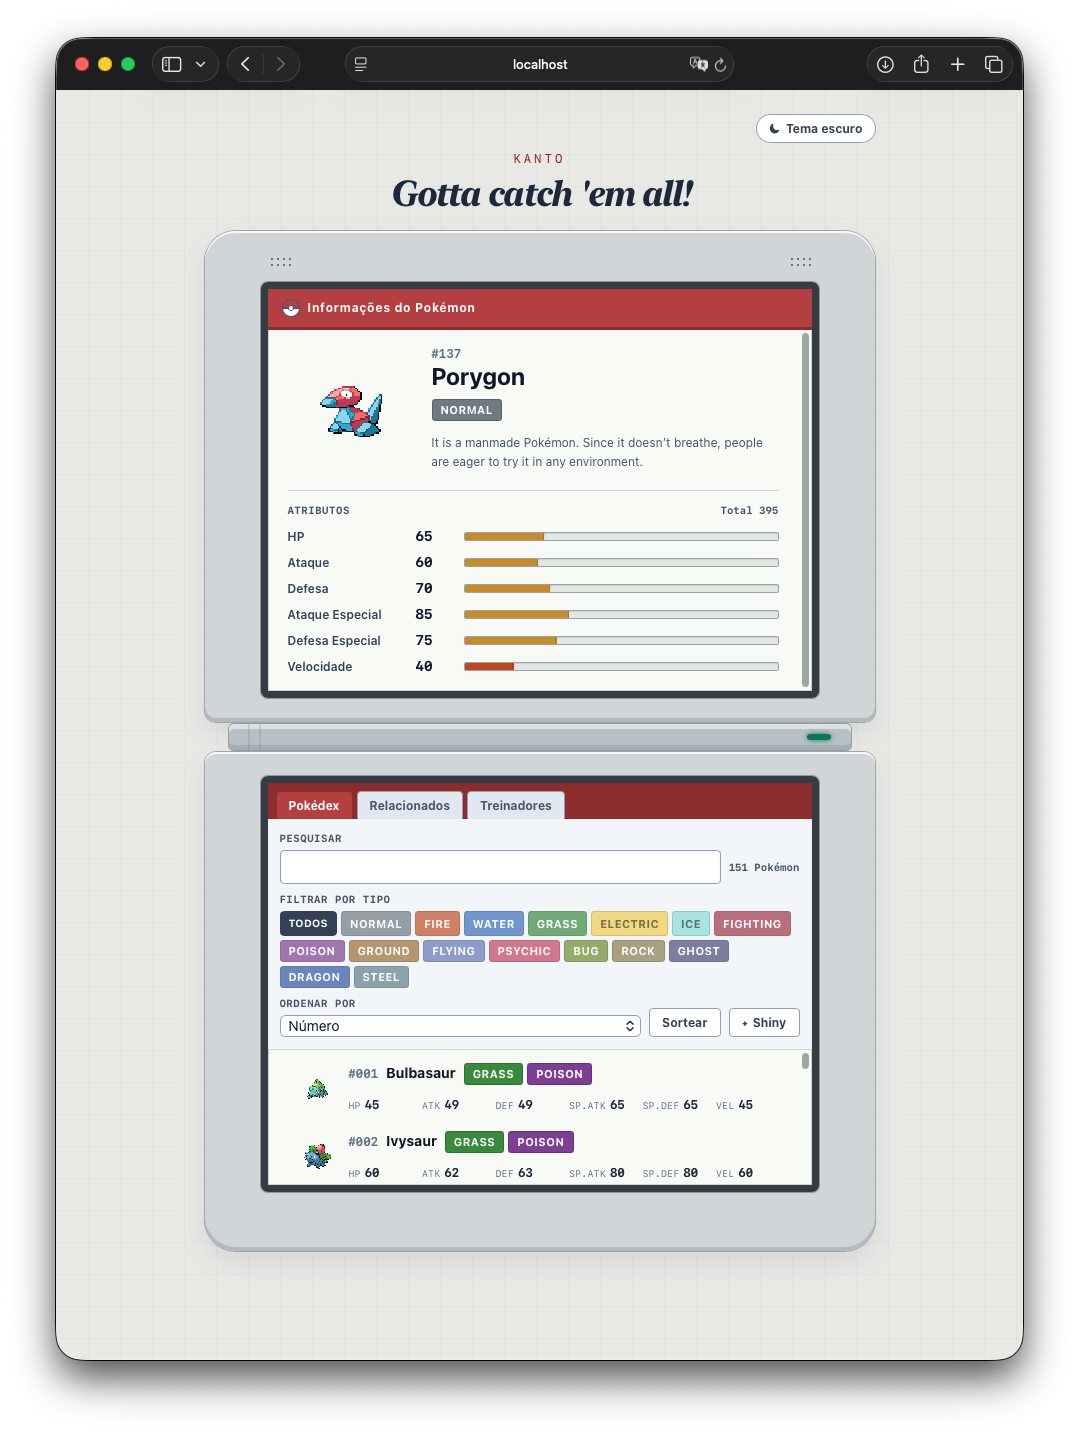
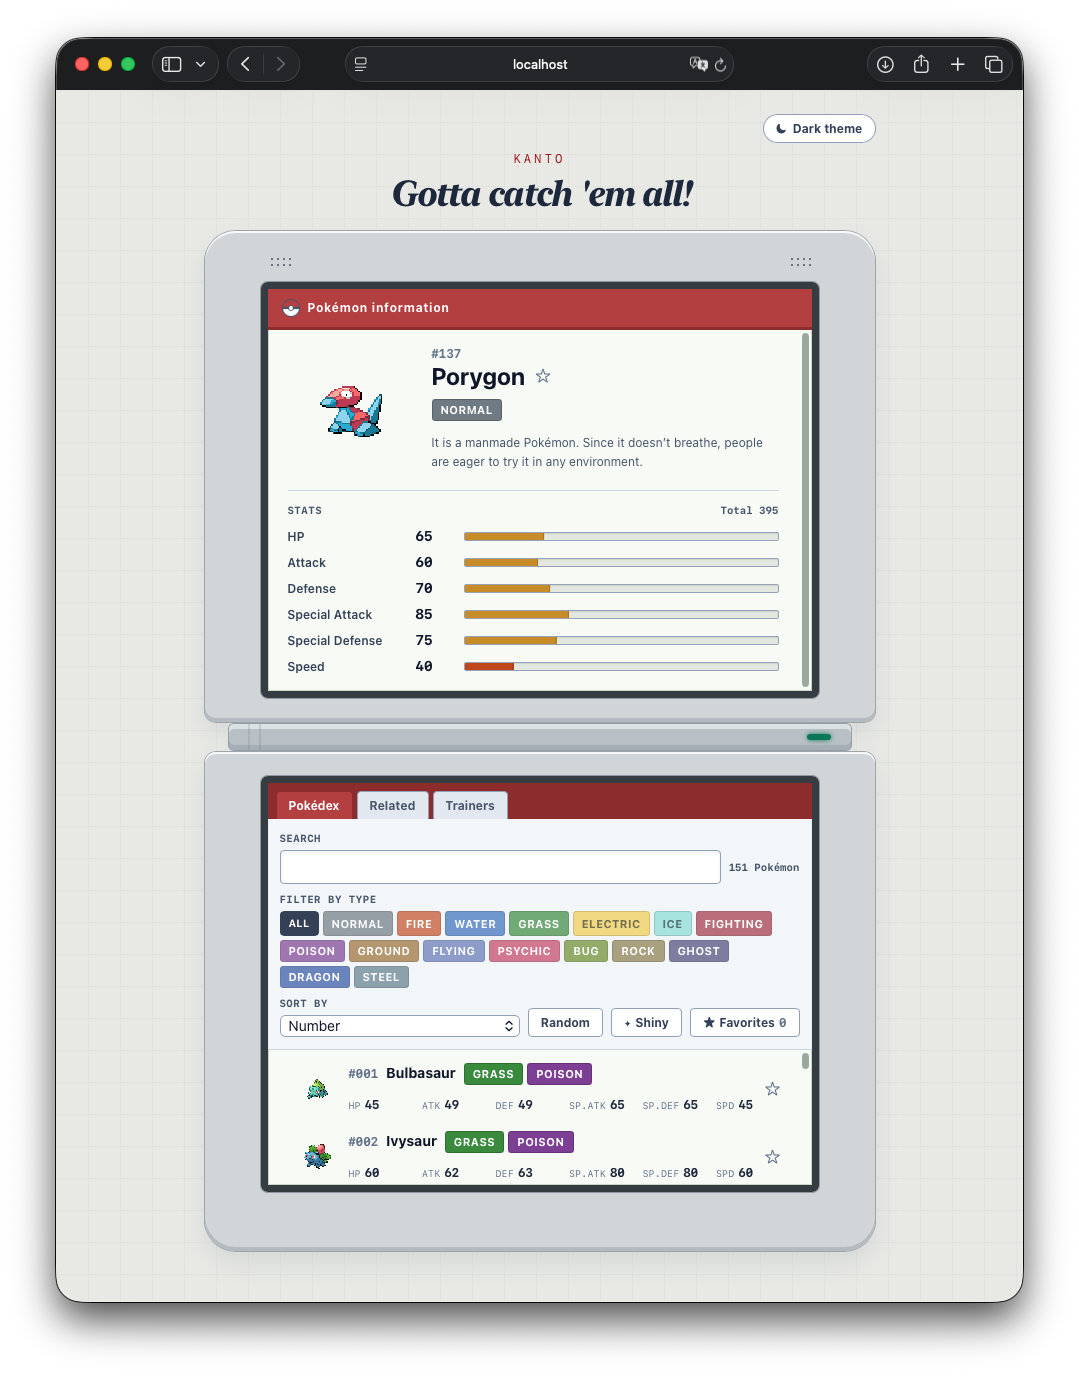
docs: adiciona imagem atualizada da tela

diff --git a/README.md b/README.md
@@ -6,7 +6,7 @@ seleção e sprites em pixel art.
 
 Atividade 03 da disciplina Desenvolvimento e Integração de Aplicações Web (DIAW) -PUC Minas.
 
-## Imagem
+## Tela
 
 ![A Pokédex rodando](./src/assets/images/img-pokedex.png)
 
@@ -25,10 +25,6 @@ ficam salvos e aparecem para todo mundo que abrir a página.
 Os dados dos Pokémon ficam num arquivo dentro do projeto, então a parte
 principal funciona mesmo sem internet. As imagens e as descrições vêm da
 PokéAPI, e os favoritos de um banco Supabase.
-
-## Telas
-
-![A Pokédex rodando](src/assets/images/screenshot.png)
 
 ## De onde vêm os dados
 
